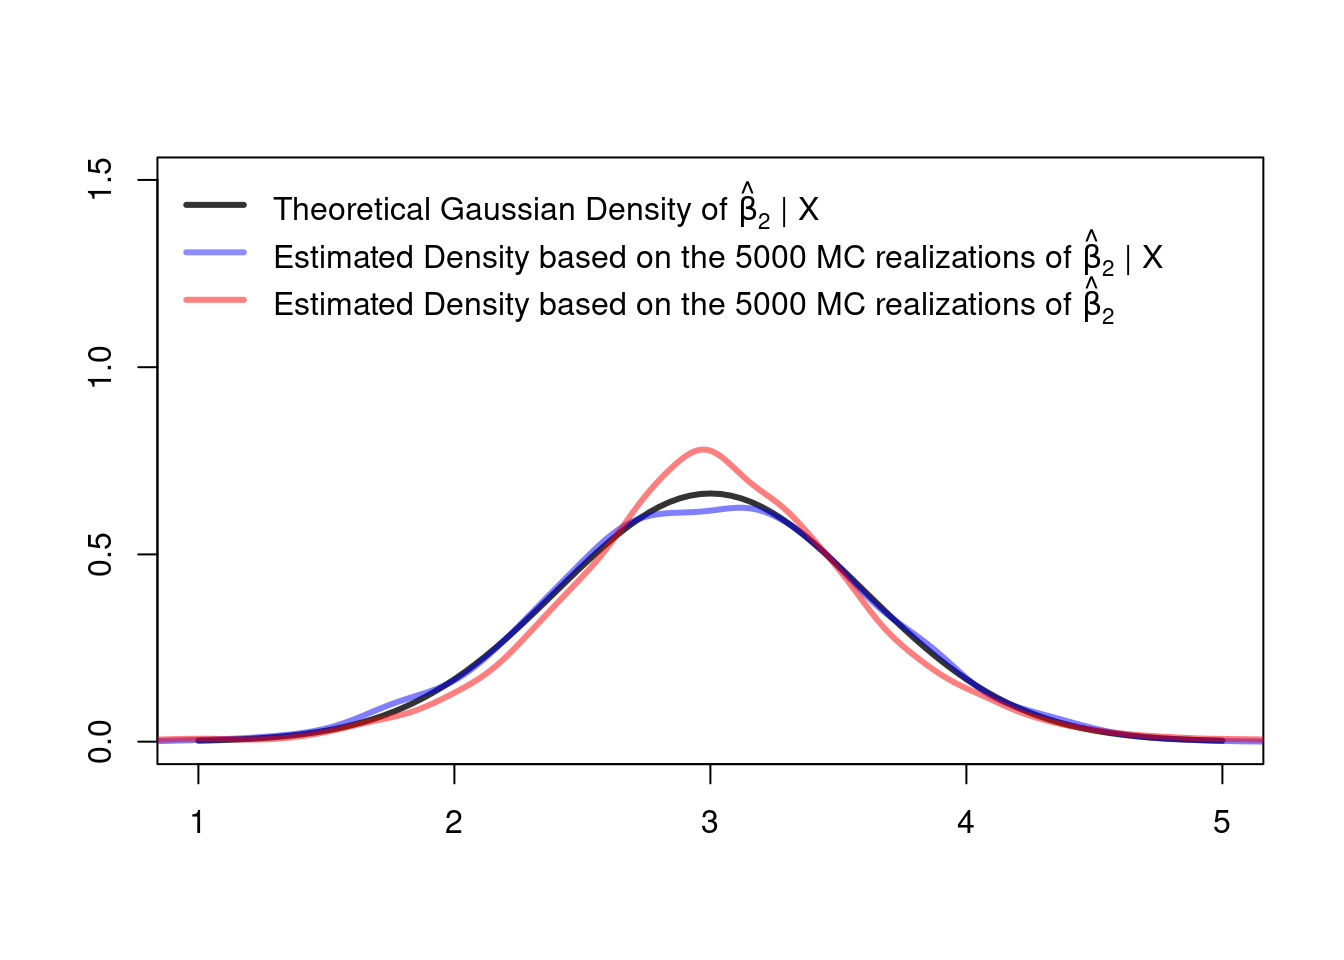
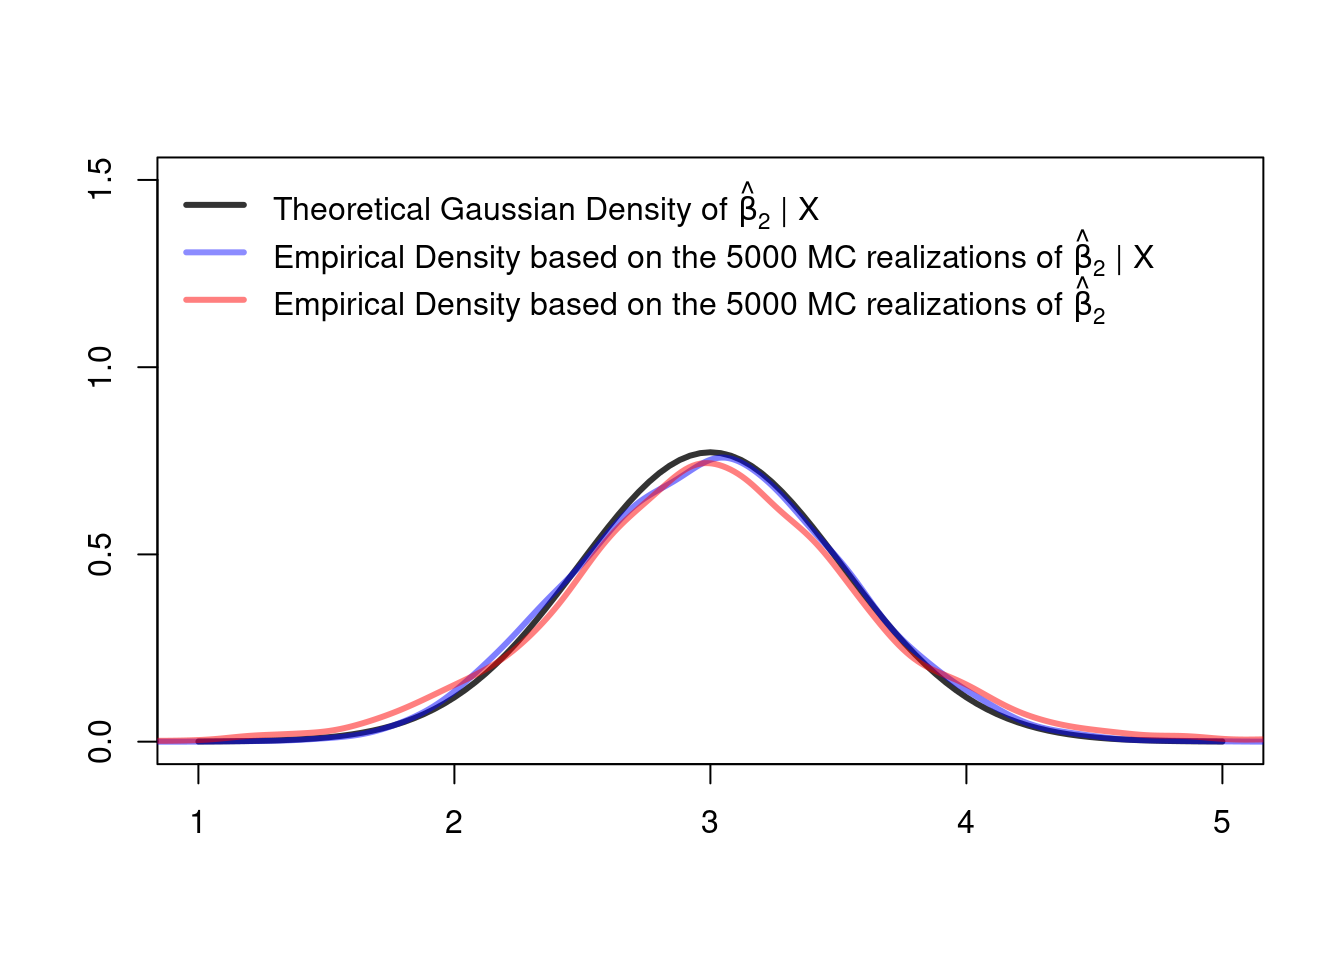
adding variance ch in mc-part of ssinf

Changed region(s): [[0.2188, 0.25, 0.875, 0.3438], [0.125, 0.4688, 0.625, 0.7812], [0.625, 0.5938, 0.9062, 0.7812]]

diff --git a/85467d963958861b842aa28b9eb262b1ea250101/docs/05-Small-Sample-Inference.html b/85467d963958861b842aa28b9eb262b1ea250101/docs/05-Small-Sample-Inference.html
@@ -244,8 +244,9 @@ div.csl-indent {
   <li><a href="#sec-PSSI" id="toc-sec-PSSI" class="nav-link" data-scroll-target="#sec-PSSI"><span class="toc-section-number">5.5</span>  Monte Carlo Simulations</a>
   <ul class="collapse">
   <li><a href="#check-distribution-of-hatbetax-vs-distribution-of-hatbeta" id="toc-check-distribution-of-hatbetax-vs-distribution-of-hatbeta" class="nav-link" data-scroll-target="#check-distribution-of-hatbetax-vs-distribution-of-hatbeta"><span class="toc-section-number">5.5.1</span>  Check: Distribution of <span class="math inline">\(\hat\beta|X\)</span> vs Distribution of <span class="math inline">\(\hat\beta\)</span></a></li>
-  <li><a href="#check-testing-multiple-parameters" id="toc-check-testing-multiple-parameters" class="nav-link" data-scroll-target="#check-testing-multiple-parameters"><span class="toc-section-number">5.5.2</span>  Check: Testing Multiple Parameters</a></li>
-  <li><a href="#dualty-of-confidence-intervals-and-hypothesis-tests" id="toc-dualty-of-confidence-intervals-and-hypothesis-tests" class="nav-link" data-scroll-target="#dualty-of-confidence-intervals-and-hypothesis-tests"><span class="toc-section-number">5.5.3</span>  Dualty of Confidence Intervals and Hypothesis Tests</a></li>
+  <li><a href="#check-variance-of-hatbetax-vs-variance-of-hatbeta" id="toc-check-variance-of-hatbetax-vs-variance-of-hatbeta" class="nav-link" data-scroll-target="#check-variance-of-hatbetax-vs-variance-of-hatbeta"><span class="toc-section-number">5.5.2</span>  Check: Variance of <span class="math inline">\(\hat\beta|X\)</span> vs Variance of <span class="math inline">\(\hat\beta\)</span></a></li>
+  <li><a href="#check-testing-multiple-parameters" id="toc-check-testing-multiple-parameters" class="nav-link" data-scroll-target="#check-testing-multiple-parameters"><span class="toc-section-number">5.5.3</span>  Check: Testing Multiple Parameters</a></li>
+  <li><a href="#dualty-of-confidence-intervals-and-hypothesis-tests" id="toc-dualty-of-confidence-intervals-and-hypothesis-tests" class="nav-link" data-scroll-target="#dualty-of-confidence-intervals-and-hypothesis-tests"><span class="toc-section-number">5.5.4</span>  Dualty of Confidence Intervals and Hypothesis Tests</a></li>
   </ul></li>
   <li><a href="#real-data-practice" id="toc-real-data-practice" class="nav-link" data-scroll-target="#real-data-practice"><span class="toc-section-number">5.6</span>  Real Data Practice</a></li>
   <li><a href="#references" id="toc-references" class="nav-link" data-scroll-target="#references">References</a></li>
@@ -627,16 +628,16 @@ X_{i3}&amp;\sim U[12,22]\\
 <span id="cb11-38"><a href="#cb11-38" aria-hidden="true" tabindex="-1"></a><span class="fu">round</span>(<span class="fu">head</span>(test_data,     <span class="dv">3</span>), <span class="dv">2</span>) <span class="co"># New Y, new X</span></span></code><button title="Copy to Clipboard" class="code-copy-button"><i class="bi"></i></button></pre></div>
 <div class="cell-output cell-output-stdout">
 <pre><code>       Y X_1  X_2   X_3
-1  81.78   1 7.91 14.28
-2 104.85   1 7.33 19.22
-3  63.96   1 3.64 12.65</code></pre>
+1  82.09   1 7.48 13.78
+2 100.23   1 8.63 17.71
+3  80.38   1 8.89 12.36</code></pre>
 </div>
 <div class="sourceCode cell-code" id="cb13"><pre class="sourceCode r code-with-copy"><code class="sourceCode r"><span id="cb13-1"><a href="#cb13-1" aria-hidden="true" tabindex="-1"></a><span class="fu">round</span>(<span class="fu">head</span>(test_data_new, <span class="dv">3</span>), <span class="dv">2</span>) <span class="co"># New Y, conditionally on X</span></span></code><button title="Copy to Clipboard" class="code-copy-button"><i class="bi"></i></button></pre></div>
 <div class="cell-output cell-output-stdout">
-<pre><code>       Y X_1  X_2   X_3
-1  77.60   1 7.91 14.28
-2 104.48   1 7.33 19.22
-3  65.57   1 3.64 12.65</code></pre>
+<pre><code>      Y X_1  X_2   X_3
+1 80.30   1 7.48 13.78
+2 99.41   1 8.63 17.71
+3 81.40   1 8.89 12.36</code></pre>
 </div>
 </div>
 <section id="check-distribution-of-hatbetax-vs-distribution-of-hatbeta" class="level3" data-number="5.5.1">
@@ -651,7 +652,7 @@ X_{i3}&amp;\sim U[12,22]\\
 </ol>
 <p>Then estimate the distributons from both Monte Carlo samples and compare them with the theoretical distribution <span class="math inline">\(\hat\beta_2|X\sim\mathcal{N}(\beta_k,\sigma^2[(X'X)^{-1}]_{22})\)</span>:</p>
 <div class="cell">
-<div class="sourceCode cell-code" id="cb15"><pre class="sourceCode r code-with-copy"><code class="sourceCode r"><span id="cb15-1"><a href="#cb15-1" aria-hidden="true" tabindex="-1"></a><span class="fu">set.seed</span>(<span class="dv">123</span>) <span class="co"># seed of the random number generator</span></span>
+<div class="sourceCode cell-code" id="cb15"><pre class="sourceCode r code-with-copy"><code class="sourceCode r"><span id="cb15-1"><a href="#cb15-1" aria-hidden="true" tabindex="-1"></a><span class="fu">set.seed</span>(<span class="dv">1011</span>) <span class="co"># seed of the random number generator</span></span>
 <span id="cb15-2"><a href="#cb15-2" aria-hidden="true" tabindex="-1"></a></span>
 <span id="cb15-3"><a href="#cb15-3" aria-hidden="true" tabindex="-1"></a><span class="do">## A function to generate realizations of the estimator \hat{beta}_2</span></span>
 <span id="cb15-4"><a href="#cb15-4" aria-hidden="true" tabindex="-1"></a><span class="do">## conditionally or unconditionally on X:</span></span>
@@ -698,16 +699,24 @@ X_{i3}&amp;\sim U[12,22]\\
 <span id="cb15-45"><a href="#cb15-45" aria-hidden="true" tabindex="-1"></a><span class="fu">legend</span>(<span class="st">"topleft"</span>, <span class="at">lty=</span><span class="fu">c</span>(<span class="dv">1</span>,<span class="dv">1</span>,<span class="dv">1</span>), <span class="at">lwd=</span><span class="fu">c</span>(<span class="dv">3</span>,<span class="dv">3</span>,<span class="dv">3</span>),</span>
 <span id="cb15-46"><a href="#cb15-46" aria-hidden="true" tabindex="-1"></a>     <span class="at">col=</span><span class="fu">c</span>(<span class="fu">gray</span>(.<span class="dv">2</span>), <span class="fu">alpha</span>(<span class="st">"blue"</span>,.<span class="dv">45</span>), <span class="fu">alpha</span>(<span class="st">"red"</span>,.<span class="dv">5</span>)), <span class="at">bty=</span><span class="st">"n"</span>, <span class="at">legend=</span> </span>
 <span id="cb15-47"><a href="#cb15-47" aria-hidden="true" tabindex="-1"></a><span class="fu">c</span>(<span class="fu">expression</span>(<span class="st">"Theoretical Gaussian Density of"</span><span class="sc">~</span><span class="fu">hat</span>(beta)[<span class="dv">2</span>]<span class="sc">~</span><span class="st">'|'</span><span class="sc">~</span>X), </span>
-<span id="cb15-48"><a href="#cb15-48" aria-hidden="true" tabindex="-1"></a>  <span class="fu">expression</span>(<span class="st">"Estimated Density based on the 5000 MC realizations of"</span><span class="sc">~</span><span class="fu">hat</span>(beta)[<span class="dv">2</span>]<span class="sc">~</span><span class="st">'|'</span><span class="sc">~</span>X),</span>
-<span id="cb15-49"><a href="#cb15-49" aria-hidden="true" tabindex="-1"></a>  <span class="fu">expression</span>(<span class="st">"Estimated Density based on the 5000 MC realizations of"</span><span class="sc">~</span><span class="fu">hat</span>(beta)[<span class="dv">2</span>])))</span></code><button title="Copy to Clipboard" class="code-copy-button"><i class="bi"></i></button></pre></div>
+<span id="cb15-48"><a href="#cb15-48" aria-hidden="true" tabindex="-1"></a>  <span class="fu">expression</span>(<span class="st">"Empirical Density based on the 5000 MC realizations of"</span><span class="sc">~</span><span class="fu">hat</span>(beta)[<span class="dv">2</span>]<span class="sc">~</span><span class="st">'|'</span><span class="sc">~</span>X),</span>
+<span id="cb15-49"><a href="#cb15-49" aria-hidden="true" tabindex="-1"></a>  <span class="fu">expression</span>(<span class="st">"Empirical Density based on the 5000 MC realizations of"</span><span class="sc">~</span><span class="fu">hat</span>(beta)[<span class="dv">2</span>])))</span></code><button title="Copy to Clipboard" class="code-copy-button"><i class="bi"></i></button></pre></div>
 <div class="cell-output-display">
 <p><img src="05-Small-Sample-Inference_files/figure-html/unnamed-chunk-11-1.png" class="img-fluid" width="672"></p>
 </div>
 </div>
-<p>Core observations:</p>
+<p>Core observations on the densities:</p>
 <ul>
-<li>The estimated conditional distribution of <span class="math inline">\(\hat{\beta}_2|X\)</span> matches with the theoretical conditional distribution of <span class="math inline">\(\hat{\beta}_2|X\)</span>.</li>
-<li>The estimated <strong>un</strong>conditional distribution of <span class="math inline">\(\hat{\beta}_2\)</span> does not match with the theoretical conditional distribution of <span class="math inline">\(\hat{\beta}_2|X\)</span>.</li>
+<li>The empirical conditional distribution of <span class="math inline">\(\hat{\beta}_2|X\)</span> matches with the theoretical conditional distribution of <span class="math inline">\(\hat{\beta}_2|X\)</span>.</li>
+<li>The empirical <strong>un</strong>conditional distribution of <span class="math inline">\(\hat{\beta}_2\)</span> does not match with the theoretical conditional distribution of <span class="math inline">\(\hat{\beta}_2|X\)</span>.</li>
+</ul>
+</section>
+<section id="check-variance-of-hatbetax-vs-variance-of-hatbeta" class="level3" data-number="5.5.2">
+<h3 data-number="5.5.2" class="anchored" data-anchor-id="check-variance-of-hatbetax-vs-variance-of-hatbeta"><span class="header-section-number">5.5.2</span> Check: Variance of <span class="math inline">\(\hat\beta|X\)</span> vs Variance of <span class="math inline">\(\hat\beta\)</span></h3>
+<ul>
+<li>The theoretical variance of <span class="math inline">\(\hat{\beta}_2|X\)</span> is <span class="math inline">\(\sigma^2[(X'X)^{-1}]_{22}=\)</span> <code>var_true_beta_2</code> <span class="math inline">\(=\)</span> 0.2665004.</li>
+<li>The Monte Carlo approximation to the true variance of <span class="math inline">\(\hat{\beta}_2|X\)</span> is <code>var(hatbeta2_sim_cond)</code> <span class="math inline">\(=\)</span> 0.2712712</li>
+<li>The Monte Carlo approximation to the true variance of <span class="math inline">\(\hat{\beta}_2\)</span> is <code>var(hatbeta2_sim_uncond)</code> <span class="math inline">\(=\)</span> 0.3728238</li>
 </ul>
 <!-- While the unconditional distribution has a larger variance.  -->
 <!-- ```{r} -->
@@ -811,8 +820,8 @@ X_{i3}&amp;\sim U[12,22]\\
 <!-- ``` -->
 <!-- Not so good. The theoretical distribution of $\hat\beta_2|X$ has much fatter tails than the simulated distribution of $\hat\beta_2$  (i.e. simulated without conditioning in $X$). That is, we cannot simply neglect that the distribution of $\hat\beta_2$ depends on the observed realization of $X$ in small samples. In large sample, however, the effect of a given realization $X$ is (fortunately) negligible, as we will see in @sec-lsinf.  -->
 </section>
-<section id="check-testing-multiple-parameters" class="level3" data-number="5.5.2">
-<h3 data-number="5.5.2" class="anchored" data-anchor-id="check-testing-multiple-parameters"><span class="header-section-number">5.5.2</span> Check: Testing Multiple Parameters</h3>
+<section id="check-testing-multiple-parameters" class="level3" data-number="5.5.3">
+<h3 data-number="5.5.3" class="anchored" data-anchor-id="check-testing-multiple-parameters"><span class="header-section-number">5.5.3</span> Check: Testing Multiple Parameters</h3>
 <p>In the following, we do inference about multiple parameters. We test <span class="math display">\[\begin{align*}
 H_0:\;&amp;\beta_2=3\quad\text{and}\quad\beta_3=4\\
 \text{versus}\quad H_A:\;&amp;\beta_2\neq 3\quad\text{and/or}\quad\beta_3\neq 4.
@@ -854,12 +863,14 @@ X_3 = 4
 Model 1: restricted model
 Model 2: Y ~ X_2 + X_3
 
-  Res.Df    RSS Df Sum of Sq      F Pr(&gt;F)
-1      7 50.957                           
-2      5 40.517  2     10.44 0.6442 0.5637</code></pre>
+  Res.Df    RSS Df Sum of Sq     F  Pr(&gt;F)  
+1      7 89.979                             
+2      5 15.709  2    74.271 11.82 0.01273 *
+---
+Signif. codes:  0 '***' 0.001 '**' 0.01 '*' 0.05 '.' 0.1 ' ' 1</code></pre>
 </div>
 </div>
-<p>The <span class="math inline">\(p\)</span>-value <span class="math inline">\(p=\)</span> 0.5637 is larger than the chosen significance level <span class="math inline">\(\alpha=0.05\)</span> thus we cannot reject the null hypothesis “<span class="math inline">\(H_0:\;\beta_2=3\)</span> and <span class="math inline">\(\beta_3=4.\)</span>”</p>
+<p>The <span class="math inline">\(p\)</span>-value <span class="math inline">\(p=\)</span> 0.0127 is larger than the chosen significance level <span class="math inline">\(\alpha=0.05\)</span> thus we cannot reject the null hypothesis “<span class="math inline">\(H_0:\;\beta_2=3\)</span> and <span class="math inline">\(\beta_3=4.\)</span>”</p>
 <p>The following codes gives an alternative, equivalent way to compute the test result:</p>
 <div class="cell">
 <div class="sourceCode cell-code" id="cb18"><pre class="sourceCode r code-with-copy"><code class="sourceCode r"><span id="cb18-1"><a href="#cb18-1" aria-hidden="true" tabindex="-1"></a><span class="do">## Option 2:</span></span>
@@ -892,14 +903,14 @@ Model 2: Y ~ X_2 + X_3
 <span id="cb19-19"><a href="#cb19-19" aria-hidden="true" tabindex="-1"></a>rejections   <span class="ot">&lt;-</span> F_test_pvalues[F_test_pvalues <span class="sc">&lt;</span> signif_level]</span>
 <span id="cb19-20"><a href="#cb19-20" aria-hidden="true" tabindex="-1"></a><span class="fu">round</span>(<span class="fu">length</span>(rejections)<span class="sc">/</span>B, <span class="dv">4</span>)</span></code><button title="Copy to Clipboard" class="code-copy-button"><i class="bi"></i></button></pre></div>
 <div class="cell-output cell-output-stdout">
-<pre><code>[1] 0.057</code></pre>
+<pre><code>[1] 0.0466</code></pre>
 </div>
 <div class="sourceCode cell-code" id="cb21"><pre class="sourceCode r code-with-copy"><code class="sourceCode r"><span id="cb21-1"><a href="#cb21-1" aria-hidden="true" tabindex="-1"></a><span class="do">## </span></span>
 <span id="cb21-2"><a href="#cb21-2" aria-hidden="true" tabindex="-1"></a>signif_level <span class="ot">&lt;-</span>  <span class="fl">0.01</span></span>
 <span id="cb21-3"><a href="#cb21-3" aria-hidden="true" tabindex="-1"></a>rejections   <span class="ot">&lt;-</span> F_test_pvalues[F_test_pvalues <span class="sc">&lt;</span> signif_level]</span>
 <span id="cb21-4"><a href="#cb21-4" aria-hidden="true" tabindex="-1"></a><span class="fu">round</span>(<span class="fu">length</span>(rejections)<span class="sc">/</span>B, <span class="dv">4</span>)</span></code><button title="Copy to Clipboard" class="code-copy-button"><i class="bi"></i></button></pre></div>
 <div class="cell-output cell-output-stdout">
-<pre><code>[1] 0.0102</code></pre>
+<pre><code>[1] 0.0092</code></pre>
 </div>
 </div>
 <p>Note that this is actually a very strong result.</p>
@@ -936,15 +947,15 @@ H_A:\;&amp;\beta_2\neq 4\quad\text{and/or}\quad\beta_3\neq 4
 <span id="cb23-18"><a href="#cb23-18" aria-hidden="true" tabindex="-1"></a><span class="do">## Rate of H0 rejections:</span></span>
 <span id="cb23-19"><a href="#cb23-19" aria-hidden="true" tabindex="-1"></a><span class="fu">length</span>(rejections)<span class="sc">/</span>B</span></code><button title="Copy to Clipboard" class="code-copy-button"><i class="bi"></i></button></pre></div>
 <div class="cell-output cell-output-stdout">
-<pre><code>[1] 0.2636</code></pre>
+<pre><code>[1] 0.255</code></pre>
 </div>
 </div>
-<p>We can now correctly reject the false null hypothesis in approximately 26.36 % of all Monte Carlo replications.</p>
-<p><strong>Caution:</strong> This also means that we are not able to detect the violation of the null hypothesis in 73.64 % of cases. Therefore, we can never use an insignificant test result (<span class="math inline">\(p\)</span>-value <span class="math inline">\(\geq\alpha\)</span>) as a confirmation of the null hypothesis. Obviously, there are Type II error events (false none rejections), but since we typically do not know the distribution of the test statistic under the alternative hypothesis, we cannot control this Type II error rate. We can only control the Type I error rate by using a small significance level <span class="math inline">\(\alpha\)</span>.</p>
+<p>We can now correctly reject the false null hypothesis in approximately 25.5 % of all Monte Carlo replications.</p>
+<p><strong>Caution:</strong> This also means that we are not able to detect the violation of the null hypothesis in 74.5 % of cases. Therefore, we can never use an insignificant test result (<span class="math inline">\(p\)</span>-value <span class="math inline">\(\geq\alpha\)</span>) as a confirmation of the null hypothesis. Obviously, there are Type II error events (false none rejections), but since we typically do not know the distribution of the test statistic under the alternative hypothesis, we cannot control this Type II error rate. We can only control the Type I error rate by using a small significance level <span class="math inline">\(\alpha\)</span>.</p>
 <p>Moreover, note that the <span class="math inline">\(F\)</span> test is not informative about which part of the null hypothesis (<span class="math inline">\(\beta_2=4\)</span> and/or <span class="math inline">\(\beta_3=4\)</span>) is violated – we only get the information that at least one of the multiple parameter hypotheses is violated.</p>
 </section>
-<section id="dualty-of-confidence-intervals-and-hypothesis-tests" class="level3" data-number="5.5.3">
-<h3 data-number="5.5.3" class="anchored" data-anchor-id="dualty-of-confidence-intervals-and-hypothesis-tests"><span class="header-section-number">5.5.3</span> Dualty of Confidence Intervals and Hypothesis Tests</h3>
+<section id="dualty-of-confidence-intervals-and-hypothesis-tests" class="level3" data-number="5.5.4">
+<h3 data-number="5.5.4" class="anchored" data-anchor-id="dualty-of-confidence-intervals-and-hypothesis-tests"><span class="header-section-number">5.5.4</span> Dualty of Confidence Intervals and Hypothesis Tests</h3>
 <p>Confidence intervals can be computed using <code>R</code> as following:</p>
 <div class="cell">
 <div class="sourceCode cell-code" id="cb25"><pre class="sourceCode r code-with-copy"><code class="sourceCode r"><span id="cb25-1"><a href="#cb25-1" aria-hidden="true" tabindex="-1"></a><span class="do">## Significance level</span></span>
@@ -955,14 +966,14 @@ H_A:\;&amp;\beta_2\neq 4\quad\text{and/or}\quad\beta_3\neq 4
 <span id="cb25-6"><a href="#cb25-6" aria-hidden="true" tabindex="-1"></a><span class="do">## 95% CI for beta_2</span></span>
 <span id="cb25-7"><a href="#cb25-7" aria-hidden="true" tabindex="-1"></a><span class="fu">confint</span>(lm_obj, <span class="at">parm =</span> <span class="st">"X_2"</span>, <span class="at">level =</span> conf_level)</span></code><button title="Copy to Clipboard" class="code-copy-button"><i class="bi"></i></button></pre></div>
 <div class="cell-output cell-output-stdout">
-<pre><code>        2.5 %   97.5 %
-X_2 0.5861448 5.730749</code></pre>
+<pre><code>        2.5 %  97.5 %
+X_2 0.3999099 5.14696</code></pre>
 </div>
 <div class="sourceCode cell-code" id="cb27"><pre class="sourceCode r code-with-copy"><code class="sourceCode r"><span id="cb27-1"><a href="#cb27-1" aria-hidden="true" tabindex="-1"></a><span class="do">## 95% CI for beta_3 </span></span>
 <span id="cb27-2"><a href="#cb27-2" aria-hidden="true" tabindex="-1"></a><span class="fu">confint</span>(lm_obj, <span class="at">parm =</span> <span class="st">"X_3"</span>, <span class="at">level =</span> conf_level)</span></code><button title="Copy to Clipboard" class="code-copy-button"><i class="bi"></i></button></pre></div>
 <div class="cell-output cell-output-stdout">
-<pre><code>       2.5 %  97.5 %
-X_3 2.292231 4.89252</code></pre>
+<pre><code>       2.5 %   97.5 %
+X_3 1.652692 6.312093</code></pre>
 </div>
 </div>
 <p>We can use these two-sided confidence intervals to conduct hypotheses tests. This property of confidence intervals is called the <strong>duality of confidence intervals and hypothesis tests</strong>.</p>
@@ -998,20 +1009,20 @@ H_0:&amp;\beta_3=4\\
 <span id="cb29-20"><a href="#cb29-20" aria-hidden="true" tabindex="-1"></a><span class="do">## CI-lower, CI-upper, beta_true_2 inside?</span></span>
 <span id="cb29-21"><a href="#cb29-21" aria-hidden="true" tabindex="-1"></a><span class="fu">head</span>(<span class="fu">cbind</span>(<span class="fu">t</span>(confint_m), inside_CI))</span></code><button title="Copy to Clipboard" class="code-copy-button"><i class="bi"></i></button></pre></div>
 <div class="cell-output cell-output-stdout">
-<pre><code>                        inside_CI
-[1,] 1.7081824 5.355243         1
-[2,] 1.3820454 3.301196         1
-[3,] 1.3726051 3.684785         1
-[4,] 0.3707079 4.099438         1
-[5,] 1.1464341 4.130428         1
-[6,] 0.3601332 4.240248         1</code></pre>
+<pre><code>                       inside_CI
+[1,] 1.669186 4.019998         1
+[2,] 2.384144 4.059586         1
+[3,] 1.107914 3.045658         1
+[4,] 2.376630 4.634009         1
+[5,] 1.227155 3.512342         1
+[6,] 2.026513 3.728312         1</code></pre>
 </div>
 </div>
 <p>The following code computes the relative frequency of confidence intervals <strong>not containing</strong> the true parameter value <span class="math inline">\((\beta_2=3)\)</span>:</p>
 <div class="cell" data-layout-align="center">
 <div class="sourceCode cell-code" id="cb31"><pre class="sourceCode r code-with-copy"><code class="sourceCode r"><span id="cb31-1"><a href="#cb31-1" aria-hidden="true" tabindex="-1"></a><span class="fu">round</span>(<span class="fu">length</span>(inside_CI[inside_CI <span class="sc">==</span> <span class="cn">FALSE</span>])<span class="sc">/</span>B, <span class="dv">4</span>)</span></code><button title="Copy to Clipboard" class="code-copy-button"><i class="bi"></i></button></pre></div>
 <div class="cell-output cell-output-stdout">
-<pre><code>[1] 0.0462</code></pre>
+<pre><code>[1] 0.052</code></pre>
 </div>
 </div>
 <p>That’s good! The relative frequency is basically equal to the chosen <span class="math inline">\(\alpha=0.05\)</span> value.</p>

diff --git a/85467d963958861b842aa28b9eb262b1ea250101/docs/index.html b/85467d963958861b842aa28b9eb262b1ea250101/docs/index.html
@@ -186,7 +186,7 @@ ul.task-list li input[type="checkbox"] {
 <h1 class="unnumbered">Organization of the Course</h1>
 <section id="timetable" class="level3 unnumbered">
 <h3 class="unnumbered anchored" data-anchor-id="timetable">Timetable</h3>
-<div class="cell" data-hash="index_cache/html/unnamed-chunk-1_db9fb30db6a933690fa270b037d39476">
+<div class="cell">
 <div class="cell-output-display">
 
 <table class="table" style="margin-left: auto; margin-right: auto;">
